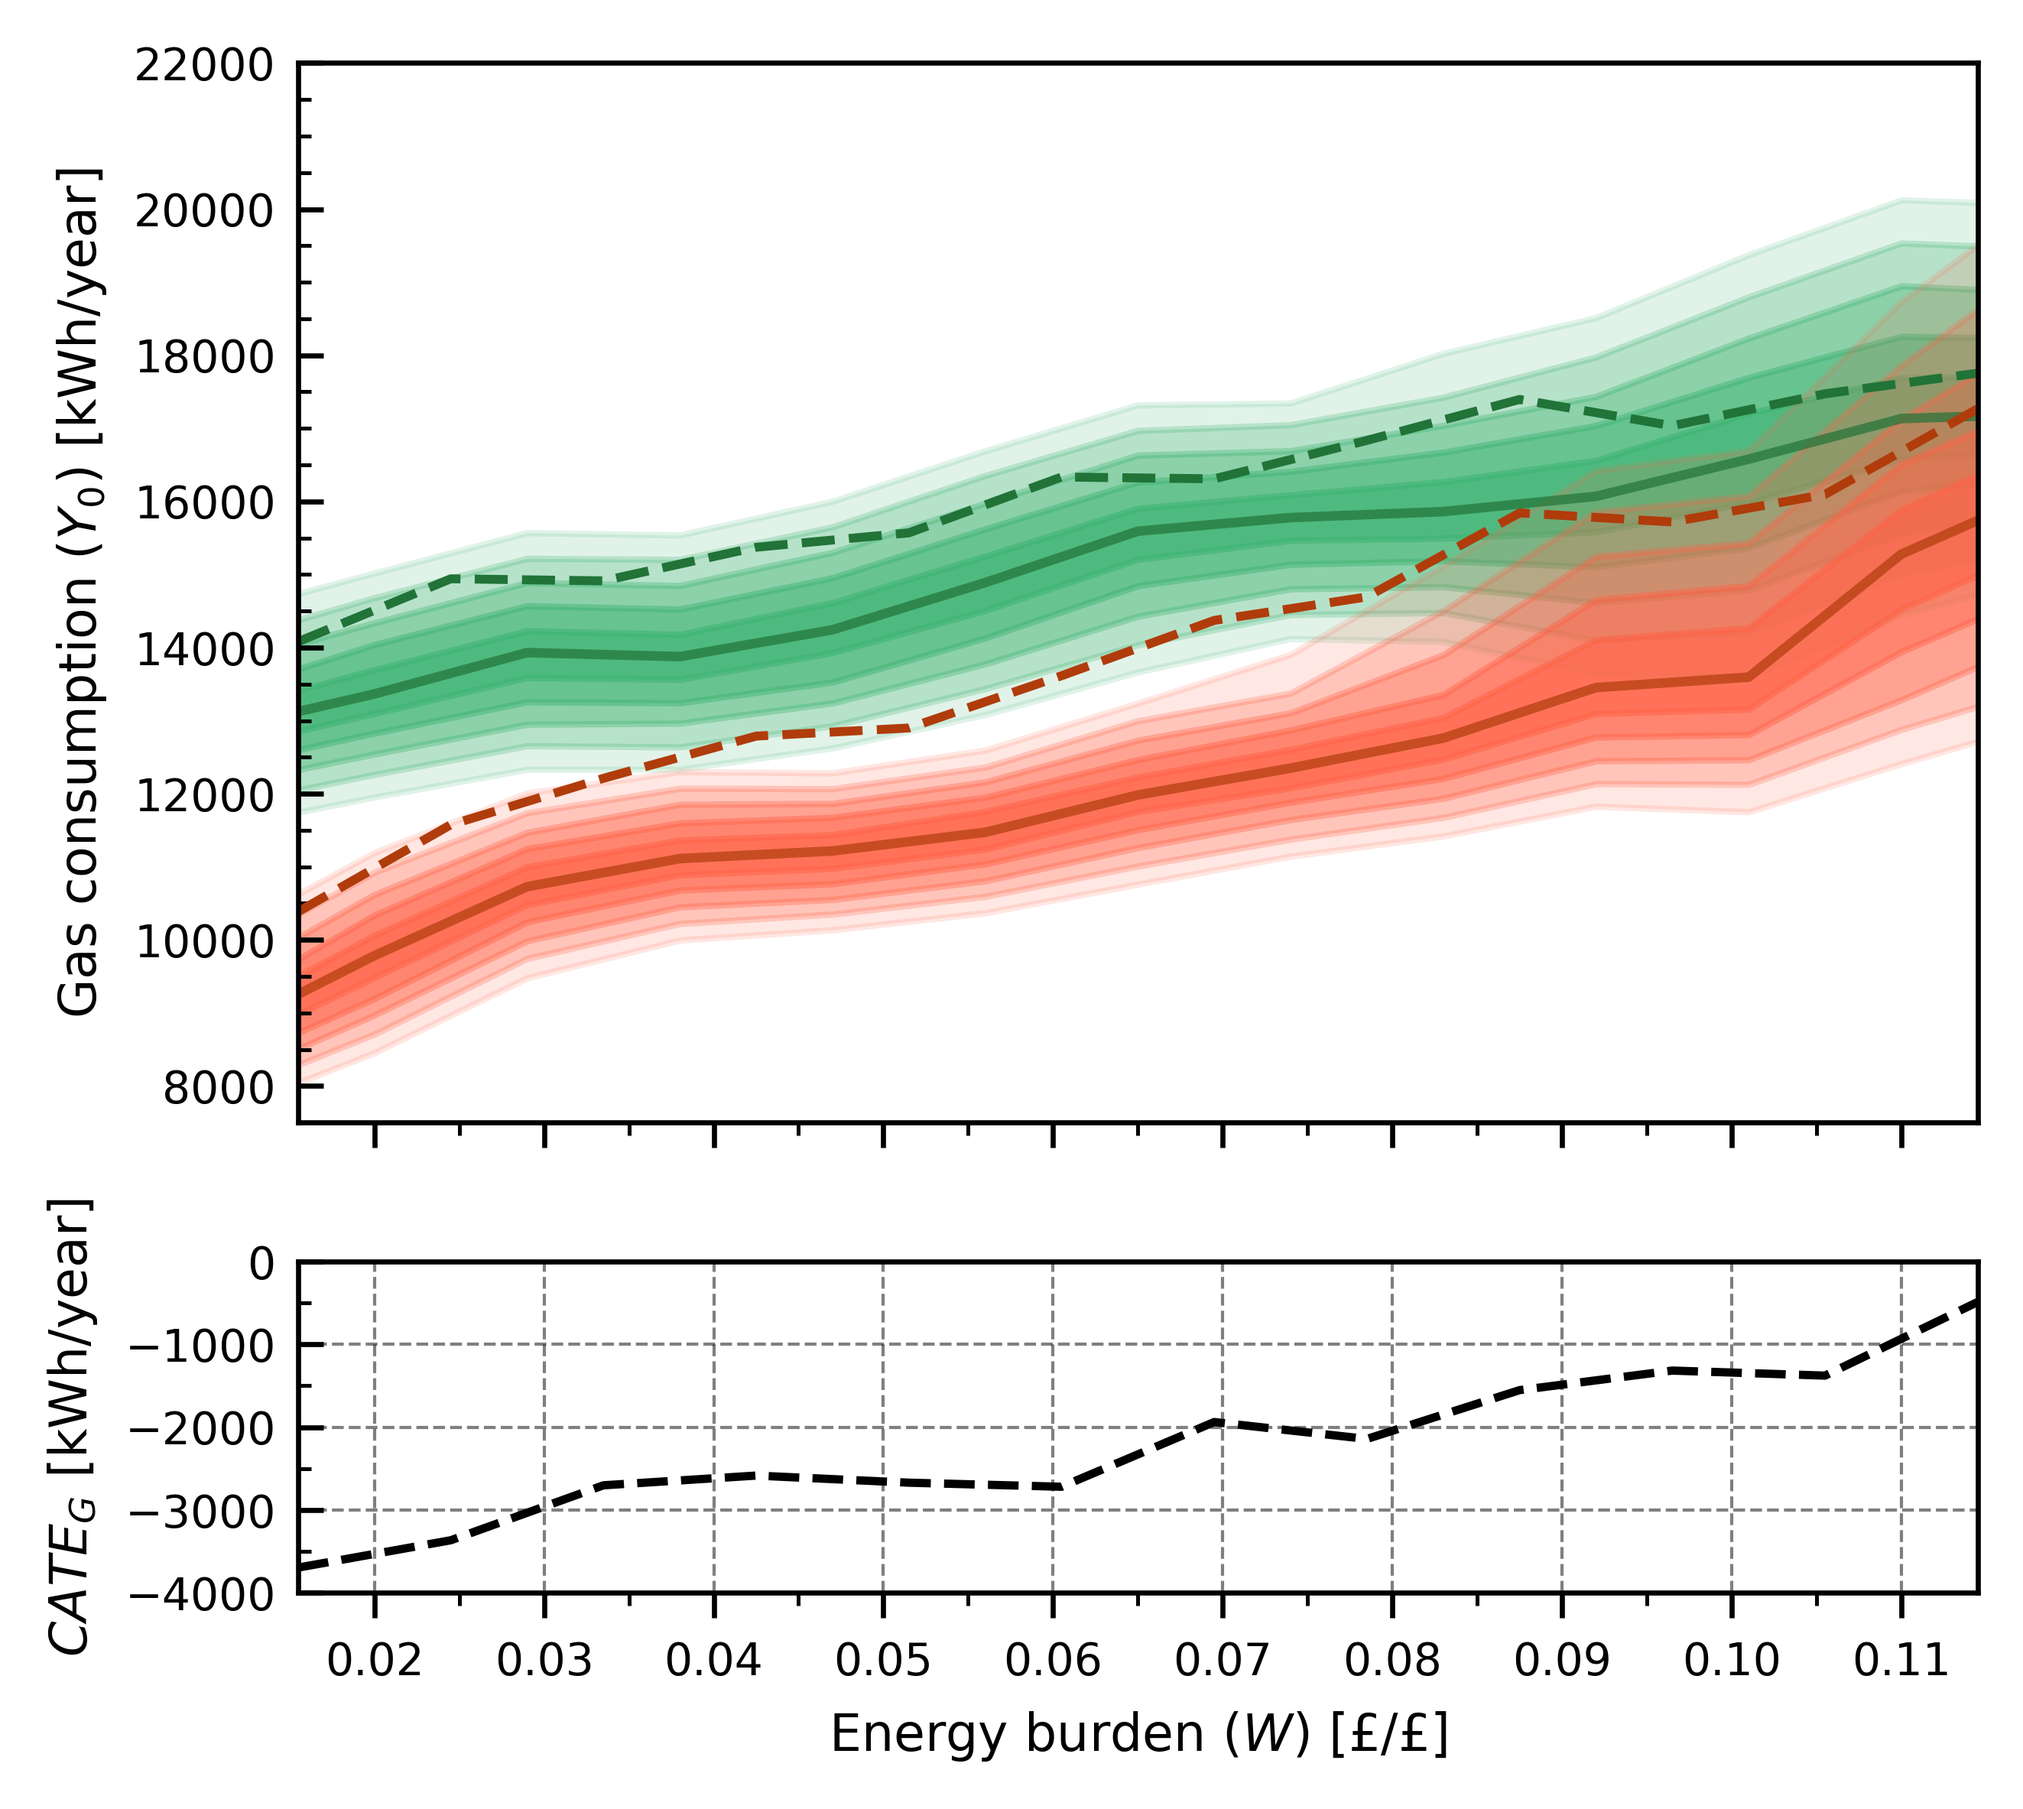
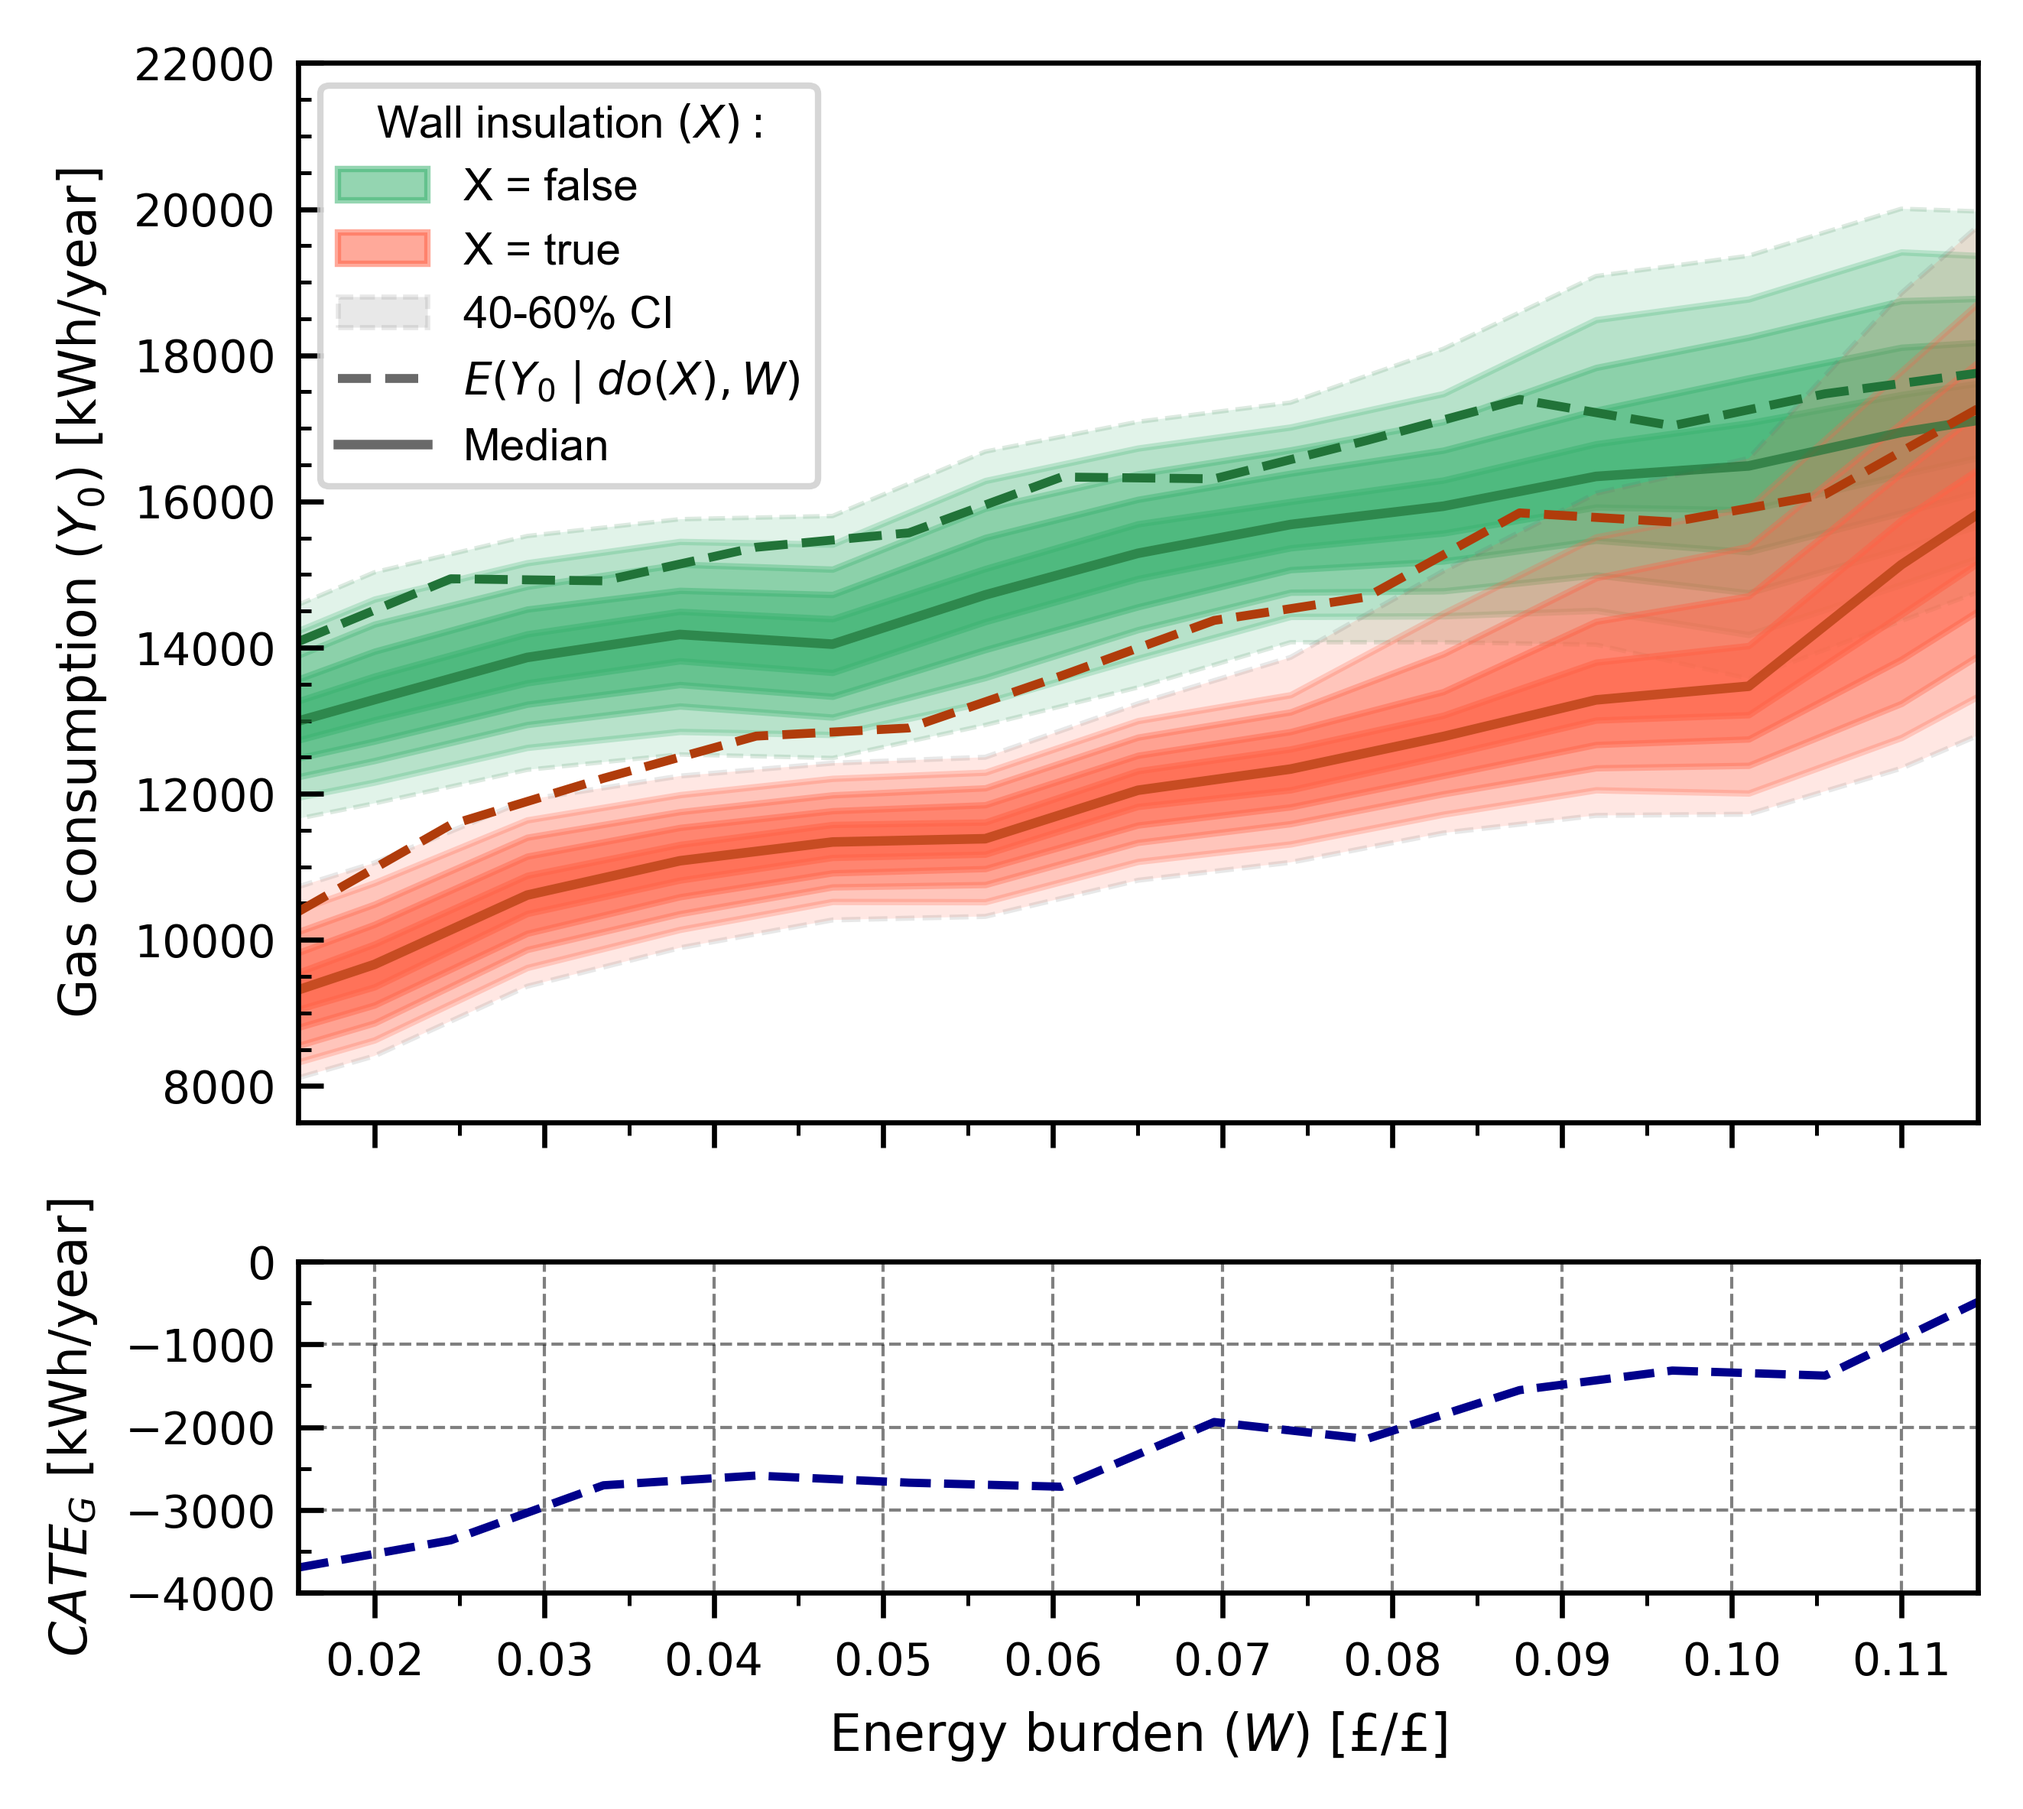
nc

diff --git a/Plotter.py b/Plotter.py
@@ -134,13 +134,13 @@ class Plotter():
         ax2 = fig.add_subplot(gs[1])
 
         # Shaded percentile bands
-        ax1.fill_between(percentiles['W_center'], percentiles['q40'], percentiles['q60'], alpha=0.15, label='40-60%', color='#3CB371')
-        ax1.fill_between(percentiles['W_center'], percentiles['q42'], percentiles['q58'], alpha=0.25, label='42-58%', color='#3CB371')
-        ax1.fill_between(percentiles['W_center'], percentiles['q44'], percentiles['q56'], alpha=0.35, label='44-56%', color='#3CB371')
-        ax1.fill_between(percentiles['W_center'], percentiles['q46'], percentiles['q54'], alpha=0.45, label='46-54%', color='#3CB371')
-        ax1.fill_between(percentiles['W_center'], percentiles['q48'], percentiles['q52'], alpha=0.55, label='48-52%', color='#3CB371')
-        ax1.plot(percentiles['W_center'], percentiles['q50'], color='#217338', label='Median', linestyle='-', linewidth=1.5, alpha=0.7)
-        ax1.plot(np.asarray(w_values, dtype=float), list_exp_Y0_given_doXx_1_Ww_1, color='#217338', label=r'$E(Y_0 \mid do(X=false), W)$', linestyle='--', linewidth=1.4)
+        ax1.fill_between(percentiles['W_center'], percentiles['q40'], percentiles['q60'], alpha=0.15, label='_40-60%', color='#3CB371', linewidth=0.7, linestyle='--', edgecolor='black')
+        ax1.fill_between(percentiles['W_center'], percentiles['q42'], percentiles['q58'], alpha=0.25, label='_42-58%', color='#3CB371', linewidth=0.2)
+        ax1.fill_between(percentiles['W_center'], percentiles['q44'], percentiles['q56'], alpha=0.35, label='_44-56%', color='#3CB371', linewidth=0.2)
+        ax1.fill_between(percentiles['W_center'], percentiles['q46'], percentiles['q54'], alpha=0.45, label='_46-54%', color='#3CB371', linewidth=0.2)
+        ax1.fill_between(percentiles['W_center'], percentiles['q48'], percentiles['q52'], alpha=0.55, label='X = false', color='#3CB371', linewidth=0.2) #'_48-52%'
+        ax1.plot(percentiles['W_center'], percentiles['q50'], color='#217338', label='_Median', linestyle='-', linewidth=1.5, alpha=0.7)
+        ax1.plot(np.asarray(w_values, dtype=float), list_exp_Y0_given_doXx_1_Ww_1, color='#217338', label='_no_label', linestyle='--', linewidth=1.4)
         median_doX_1 = percentiles['q50']
 
         ax1.set_xlabel('')
@@ -159,23 +159,31 @@ class Plotter():
         samples_df, percentiles, means = self._generate_points_for_CATE(w_values=w_values, list_distribs_doX_given_W=list_distribs_doXx_2)
 
         # Shaded percentile bands
-        ax1.fill_between(percentiles['W_center'], percentiles['q40'], percentiles['q60'], alpha=0.15, label='40-60%', color='#FF6347')
-        ax1.fill_between(percentiles['W_center'], percentiles['q42'], percentiles['q58'], alpha=0.25, label='42-58%', color='#FF6347')
-        ax1.fill_between(percentiles['W_center'], percentiles['q44'], percentiles['q56'], alpha=0.35, label='44-56%', color='#FF6347')
-        ax1.fill_between(percentiles['W_center'], percentiles['q46'], percentiles['q54'], alpha=0.45, label='46-54%', color='#FF6347')
-        ax1.fill_between(percentiles['W_center'], percentiles['q48'], percentiles['q52'], alpha=0.55, label='48-52%', color='#FF6347')
-        ax1.plot(percentiles['W_center'], percentiles['q50'], color='#b03c0b', label='Median', linestyle='-', linewidth=1.5, alpha=0.7)
-        ax1.plot(np.asarray(w_values, dtype=float), list_exp_Y0_given_doXx_2_Ww_1, color='#b03c0b', label=r'$E(Y_0 \mid do(X=true), W)$', linestyle='--', linewidth=1.4)
+        ax1.fill_between(percentiles['W_center'], percentiles['q40'], percentiles['q60'], alpha=0.15, label='_40-60%', color='#FF6347', linewidth=0.7, linestyle='--', edgecolor='black')
+        ax1.fill_between(percentiles['W_center'], percentiles['q42'], percentiles['q58'], alpha=0.25, label='_42-58%', color='#FF6347', linewidth=0.2)
+        ax1.fill_between(percentiles['W_center'], percentiles['q44'], percentiles['q56'], alpha=0.35, label='_44-56%', color='#FF6347', linewidth=0.2)
+        ax1.fill_between(percentiles['W_center'], percentiles['q46'], percentiles['q54'], alpha=0.45, label='_46-54%', color='#FF6347', linewidth=0.2)
+        ax1.fill_between(percentiles['W_center'], percentiles['q48'], percentiles['q52'], alpha=0.55, label='X = true', color='#FF6347', linewidth=0.2) #'_48-52%'
+        ax1.plot(percentiles['W_center'], percentiles['q50'], color='#b03c0b', label='_Median', linestyle='-', linewidth=1.5, alpha=0.7)
+        ax1.plot(np.asarray(w_values, dtype=float), list_exp_Y0_given_doXx_2_Ww_1, color='#b03c0b', label='_no_label', linestyle='--', linewidth=1.4)
         median_doX_2 = percentiles['q50']
+
+        ax1.axvline(40000, color='dimgray', linestyle='--', linewidth=1.4, label=r'$E(Y_0 \mid do(X), W)$')
+        ax1.axvline(40000, color='dimgray', linestyle='-', linewidth=1.5, label='Median')
+        ax1.fill_between(percentiles['W_center'], percentiles['q40'] *1000, percentiles['q60']*1000, alpha=0.15, label='40-60% CI', color='dimgray', linewidth=0.7, linestyle='--', edgecolor='black')
 
         ax1.set_xlim(w_values[0], w_values[-1])
         ax1.set_ylim(7500, 22000)
+
+        order = [0, 1, 4, 2, 3]  
+        handles, labels = ax1.get_legend_handles_labels()
+        ax1.legend([handles[idx] for idx in order], [labels[idx] for idx in order], loc='upper left', title=r'Wall insulation $(X):$', frameon=True, fontsize=7, title_fontsize=7)
         #-----------------------------------------------------------------------------
 
         CATE_vals = np.array(list_exp_Y0_given_doXx_2_Ww_1) - np.array(list_exp_Y0_given_doXx_1_Ww_1)
         #CMTE_vals = np.array(median_doX_2) - np.array(median_doX_1) # Conditional Median Treatment Effect
 
-        ax2.plot(np.asarray(w_values, dtype=float), CATE_vals, color='black', label=r'$CATE_{G}$', linestyle='--', linewidth=1.3)
+        ax2.plot(np.asarray(w_values, dtype=float), CATE_vals, color='darkblue', label=r'$CATE_{G}$', linestyle='--', linewidth=1.3)
         
 
         #ax2.plot(np.array(percentiles['W_center']), CMTE_vals, color='royalblue', label=r'$CMTE_{G}$', linestyle='-', linewidth=1.1)
